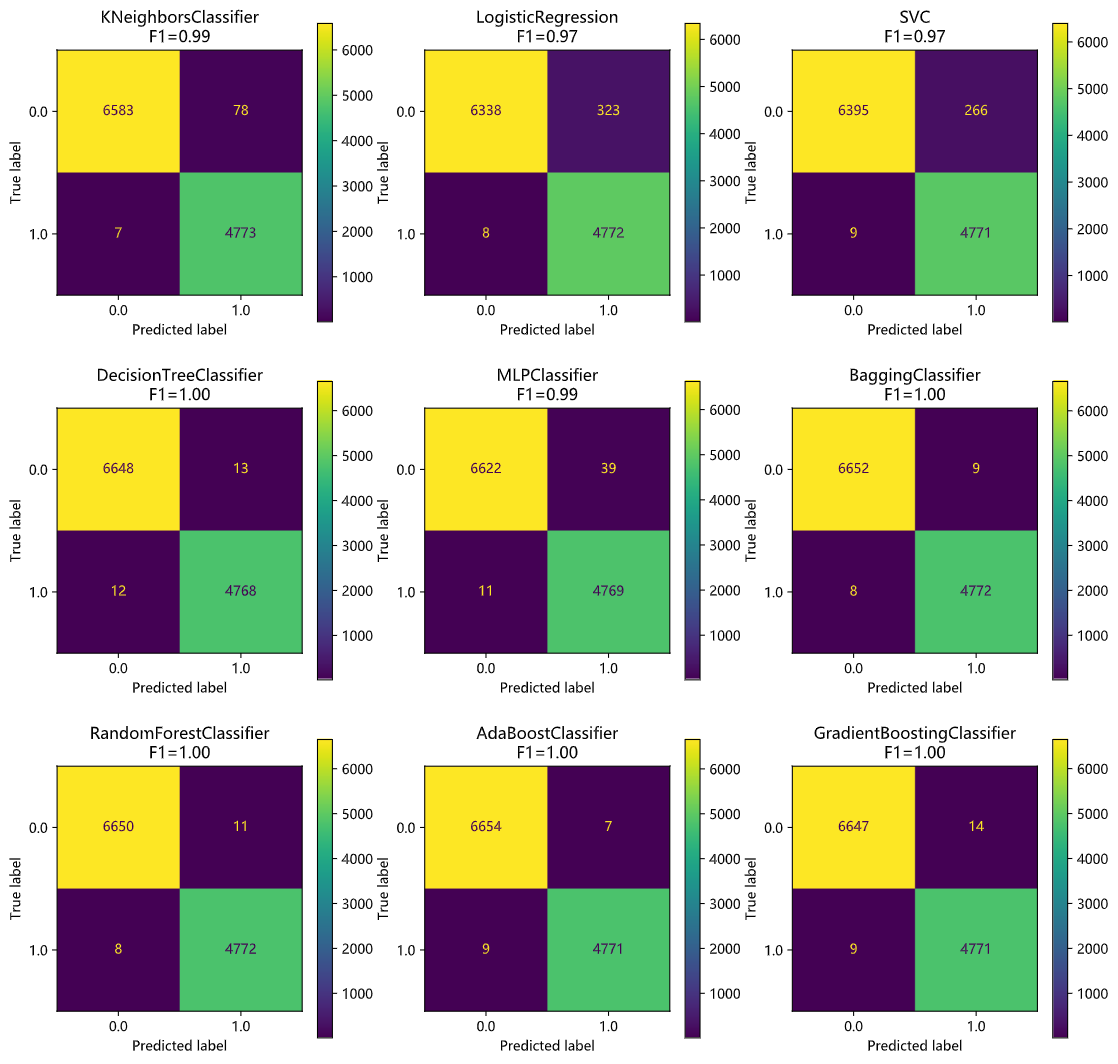
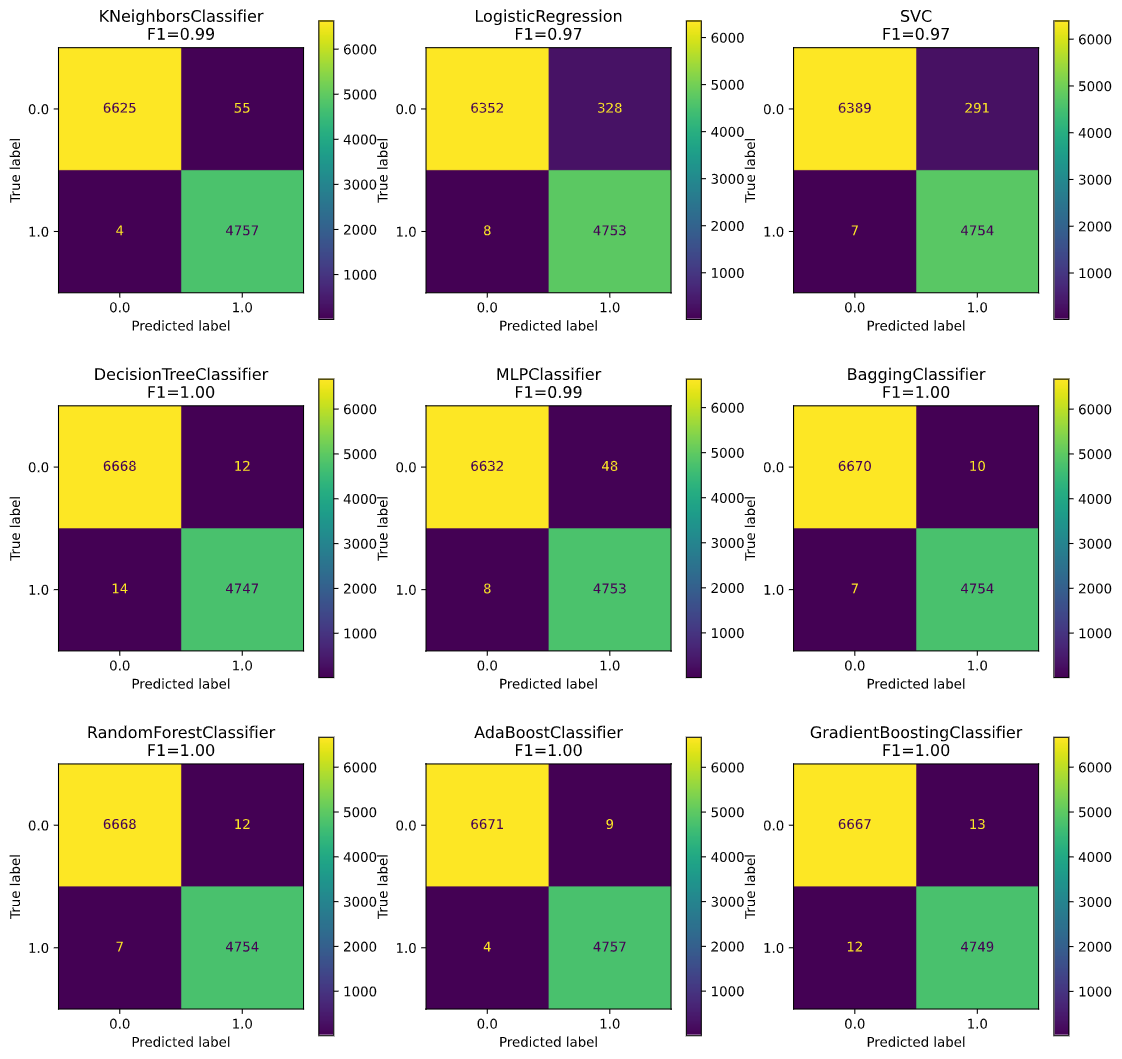
tiny updates

diff --git a/classifier.py b/classifier.py
@@ -8,15 +8,15 @@ import os
 from sklearn import cluster, manifold, neighbors, linear_model, ensemble, neural_network, tree, svm
 from sklearn import metrics, model_selection, preprocessing, feature_selection
 from sklearn.pipeline import Pipeline
-from imblearn.over_sampling import SMOTE
-from imblearn.under_sampling import RandomUnderSampler
+# from imblearn.over_sampling import SMOTE
+# from imblearn.under_sampling import RandomUnderSampler
 
-# Decision Tree Viz
-from sklearn.tree import DecisionTreeRegressor, export_graphviz
-from sklearn.externals.six import StringIO
-import pydotplus
-import graphviz
-from IPython.display import SVG
+# # Decision Tree Viz
+# from sklearn.tree import DecisionTreeRegressor, export_graphviz
+# from sklearn.externals.six import StringIO
+# import pydotplus
+# import graphviz
+# from IPython.display import SVG
 
 import pickle
 
@@ -196,7 +196,7 @@ metrics.plot_roc_curve(pipe, Xtest, ytest)
 with open('models/CART-from-validation.pkl', 'wb') as f:
   pickle.dump(pipe, f)
 
-inference = pipe.predict(scaler.transform(inferenceFeatures))
+inference = pipe.predict(inferenceFeatures)
 inferenceFlag = pd.DataFrame({'ID': inferenceFeatures.index, 'flag': inference})
 inferenceFlag.flag = inferenceFlag.flag.astype('int')
 inferenceFlag.to_csv('results/infer-test-flag-from-validation.csv', index=False)
